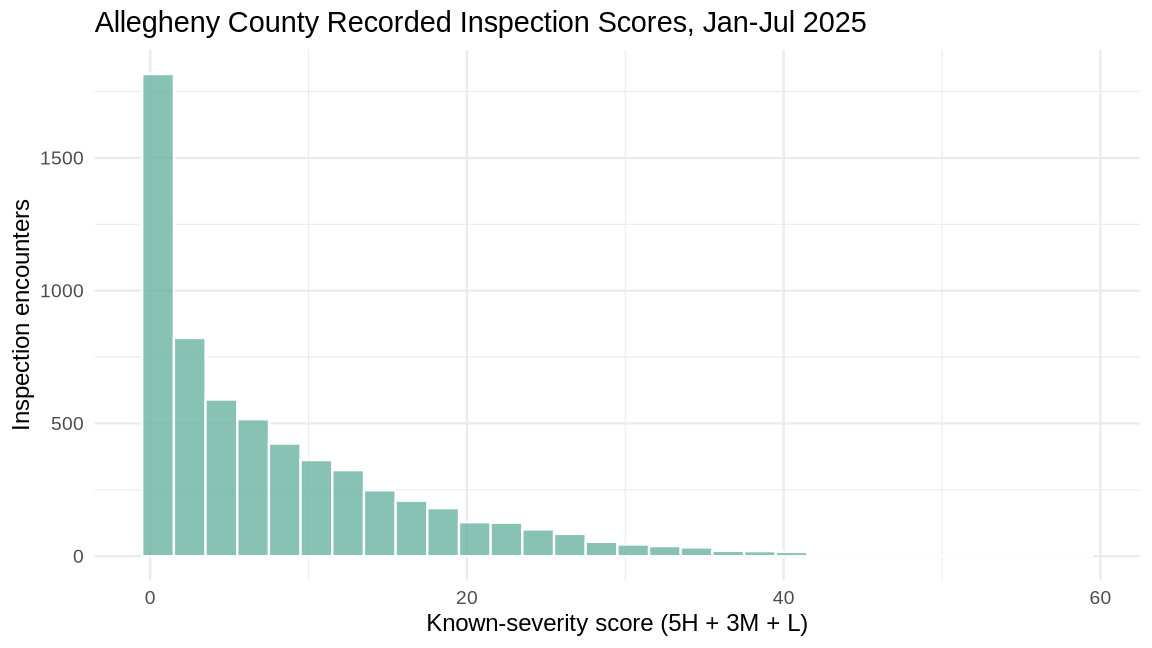
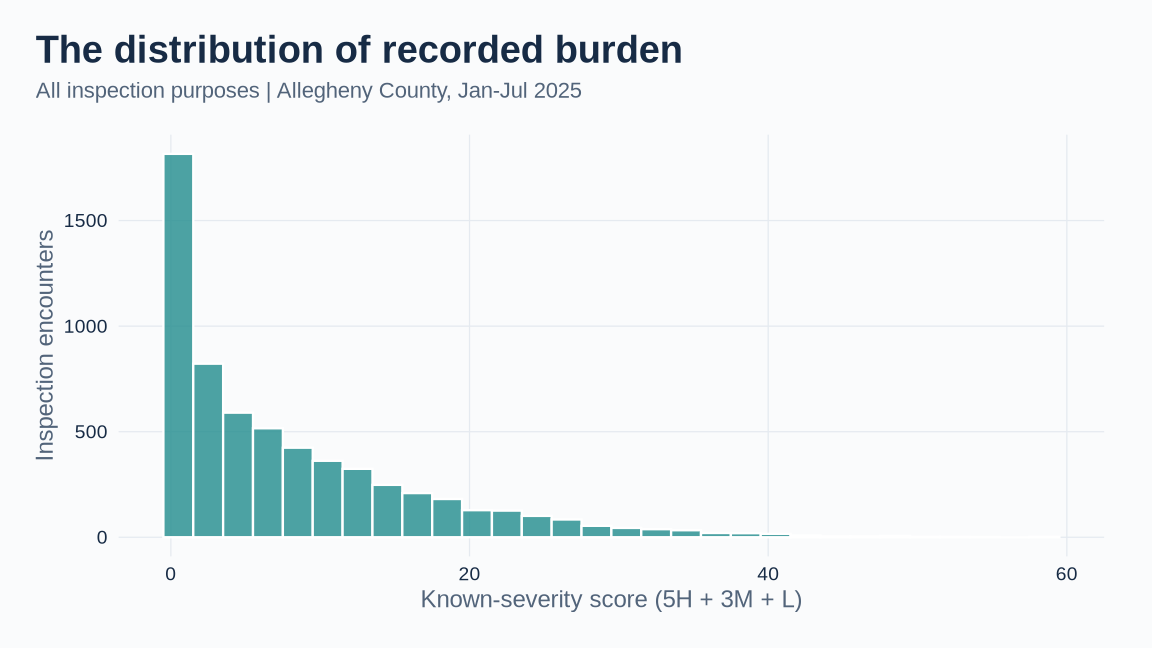
Added new visualizations

diff --git a/README.md b/README.md
@@ -86,6 +86,34 @@ Table: Facility mean score summary (Initial inspections only)
 
 The severity-first and 5/3/1 weighted top-20 inspection lists share **12 of 20** encounters. Changing the weights to 3/2/1 retains **18 of 20** encounters from the 5/3/1 list. These are descriptive sensitivity checks with deterministic tie-breaking, not statistical confidence measures. The main severity-first ranking does not depend on numerical weights.
 
+# A Visual Tour of the Findings
+
+## Inspection activity and scope
+
+Inspection volume and purpose provide context for the rankings. The chart counts every recorded encounter, including visits with no recorded violations. “Follow-up” includes the exact purposes Reinspection and Partial ReInspection; mixed-purpose visits are grouped with other visits. These monthly counts describe activity, not a trend in restaurant safety.
+
+<img src="2025_hall_of_shame_markdown_files/figure-commonmark/inspection-calendar-1.png" alt="Monthly stacked columns showing Initial, follow-up, and other inspection encounters from January through July 2025."  />
+
+## Why category names alone cannot determine severity
+
+Each row below shows the severity mix within one of the 15 most frequently cited categories. A darker cell means a larger share of that category's violation records, not a more dangerous category. The variation is why this analysis uses the inspector's recorded flags instead of assigning every occurrence of a category the same severity.
+
+<img src="2025_hall_of_shame_markdown_files/figure-commonmark/category-severity-1.png" alt="Heatmap of the 15 most frequently cited categories, showing percentages classified as high, medium, low, or unclassified."  />
+
+## The composition behind the ranking
+
+The bars below show the mean number of categories at each severity for the top 15 facilities in the Initial-only ranking. Facilities are ordered by their severity profile, not by total bar length. The annotations retain the inspection denominator and the number of unclassified categories so the limits of each comparison remain visible.
+
+<img src="2025_hall_of_shame_markdown_files/figure-commonmark/facility-severity-profiles-1.png" alt="Horizontal stacked bars showing mean high-, medium-, and low-severity category counts for the 15 highest-ranked facilities on Initial inspections."  />
+
+## What happens at the next recorded follow-up?
+
+Match an Initial visit to the very next recorded encounter for the same facility only when that encounter is a Reinspection or Partial ReInspection on a later date. Keep the earliest eligible pair per facility within the available 2025 period, then exclude pairs with unclassified categories at either visit. This is chronological matching, not a verified administrative link between reports. Same-day pairs are excluded because the analysis does not use visit times.
+
+Below the diagonal, the follow-up score is lower than the Initial score. Bubble area represents the number of facilities at the same coordinates. These facilities are a selected group that received follow-up visits; changes can reflect both corrections and narrower follow-up scope. Facilities without an eligible observed follow-up, including those near the July cutoff, do not appear.
+
+<img src="2025_hall_of_shame_markdown_files/figure-commonmark/followup-comparison-1.png" alt="Bubble scatterplot comparing Initial and next recorded follow-up scores, with a diagonal reference line for unchanged scores."  />
+
 # 2025 Rankings: Available January–July Period
 
 Click a facility name for the linked historical report. **H/M/L** are category counts at the highest recorded severity; **U** is the number of unclassified categories. The tables describe recorded conditions during this period, not current operating conditions.
@@ -279,17 +307,17 @@ Questions and suggestions on my methodology are welcome. Thanks for reading!
 
 # Reproducing the Analysis
 
-Use R 4.1 or later with `dplyr` (1.1.0 or later), `tidyr`, `ggplot2`, and `knitr`. Packages must be built for a compatible version of R. From the repository root:
+Use R 4.1 or later with `dplyr` (1.1.0 or later), `tidyr`, `ggplot2`, `stringr`, `scales`, and `knitr`. Packages must be built for a compatible version of R. From the repository root:
 
 1. Save the [historical violation export](https://data.wprdc.org/datastore/dump/1a1329e2-418c-4bd3-af2c-cc334e7559af) as `data/violations.csv` and the matching [historical inspection export](https://data.wprdc.org/datastore/dump/4ea730d8-2bf9-4783-b0a5-b41ed687097e) as `data/inspections.csv`. Both resources are labeled 2014–2025 on WPRDC. The newer inspection feed uses a different schema.
 2. Run `Rscript clean_inspections.r` to generate the summaries in `out/`.
-3. Run `Rscript tests/test_inspection_analysis.R` to check scoring and aggregation, including two comparisons with original inspection PDFs when the local exports are available.
+3. Run `Rscript tests/test_inspection_analysis.R` to check scoring and aggregation, including two comparisons with original inspection PDFs when the local exports are available. Run `Rscript tests/test_followup_matching.R` to check the follow-up chart's matching rules.
 4. Run `Rscript render_readme.r` to regenerate `README.md` and its plots from this document. For a PDF, install Quarto and a TeX distribution and run `quarto render 2025_hall_of_shame.qmd --to pdf`.
 
 Generated files:
 
 - `out/violations_by_inspection.csv`: all encounters in the shared export window, purpose, severity counts, unclassified counts, known-severity score, and `SCORE_COMPLETE` (whether every recorded violation category has a severity).
 - `out/violations_by_year.csv`: facility/year summaries, Initial-only and all-encounter means, denominators, and latest-report context within each year. The 2025 rows cover only the available period.
-- `out/category_severity_audit.csv`: recorded severity distribution for each category across the shared historical window.
+- `out/category_severity_audit.csv`: recorded severity distribution by category and year across the shared historical window; the visualizations use only 2025.
 - `out/coverage.csv`: date bounds and record counts after training-client exclusions.
 - `out/excluded_training_facilities.csv`: excluded facility identifiers and names.
